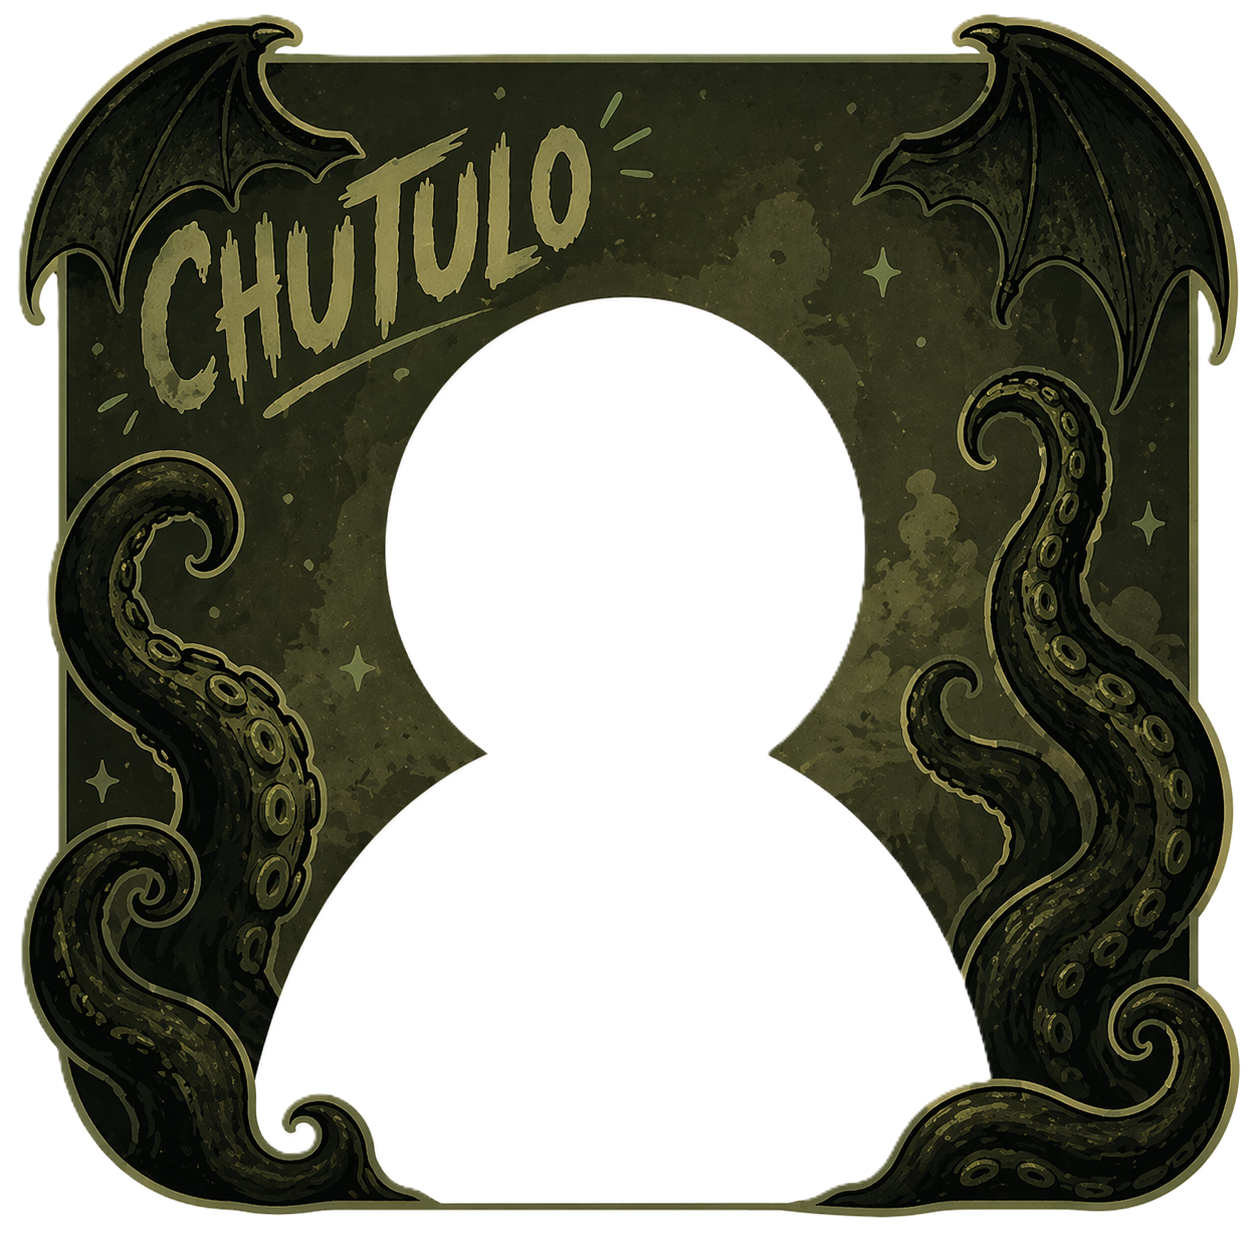
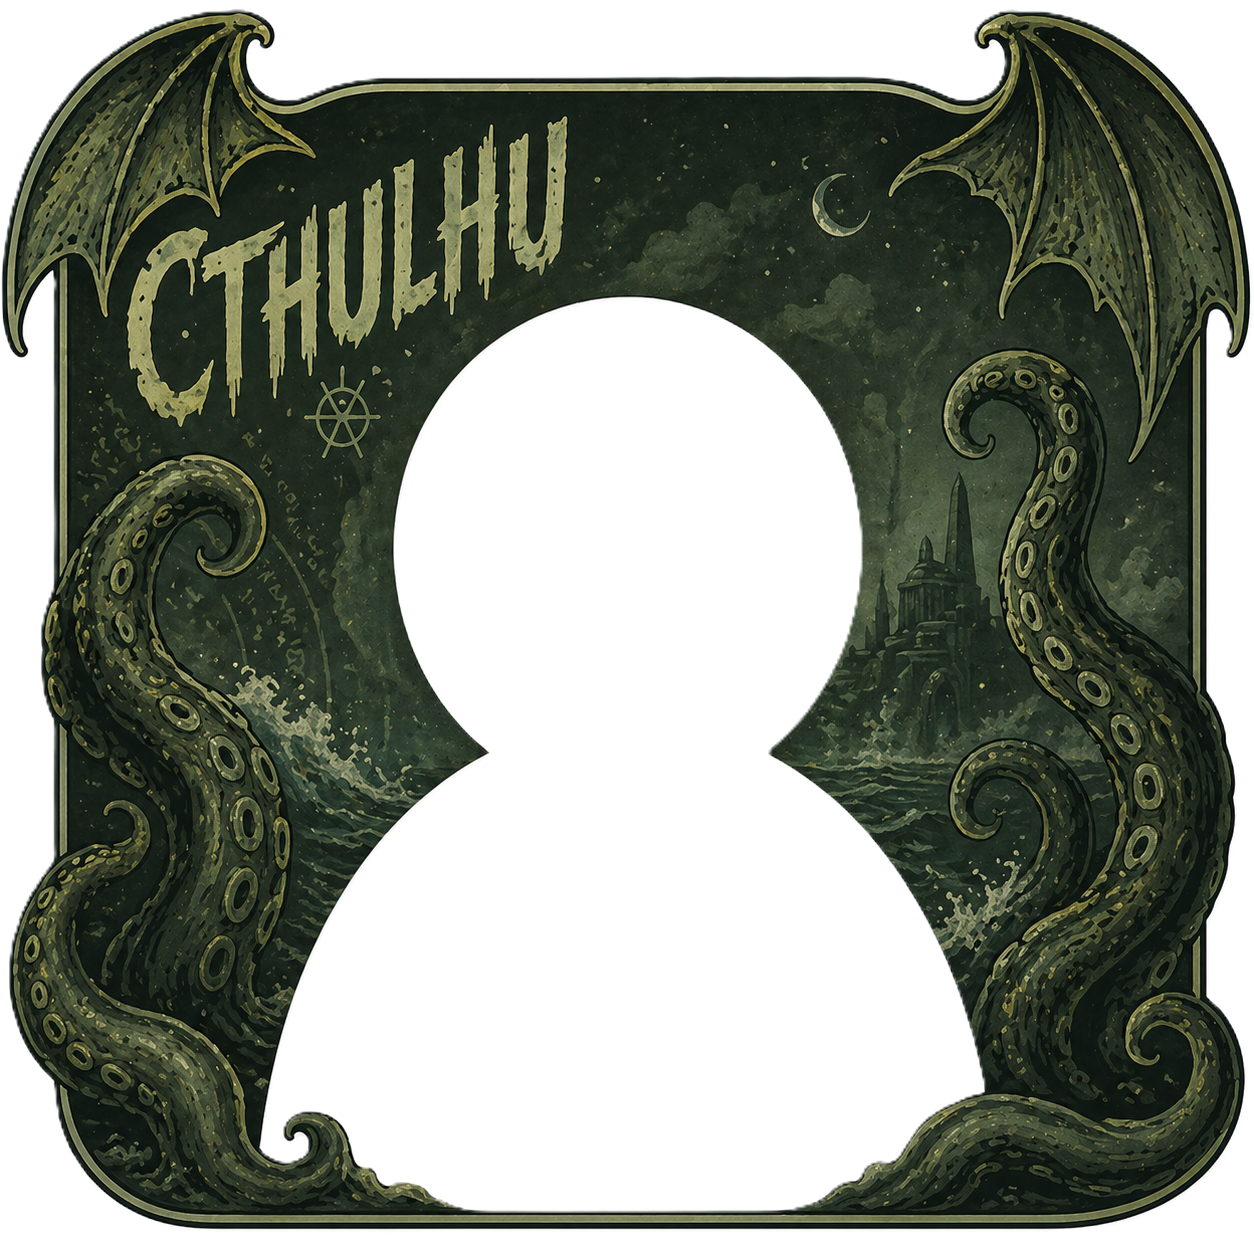
v2e1

diff --git a/src/components/CharacterSheet.jsx b/src/components/CharacterSheet.jsx
@@ -123,13 +123,24 @@ const TABS = [
 
 const PORTRAIT_W = 160
 const PORTRAIT_H = 200
-const PORTRAIT_OVAL = { cx: 80, cy: 117, rx: 69, ry: 55 }
-const CLIP = `ellipse(${PORTRAIT_OVAL.rx}px ${PORTRAIT_OVAL.ry}px at ${PORTRAIT_OVAL.cx}px ${PORTRAIT_OVAL.cy}px)`
 
-function PortraitFrame({ url, scale, offsetX, offsetY, naturalWidth, naturalHeight, onChange }) {
+const FRAME_CONFIGS = {
+  cutuloframe: { cx: 80, cy: 117, rx: 69, ry: 55 },
+  defaultimg:  { cx: 80, cy: 118, rx: 65, ry: 76 },
+}
+const getOval    = (frame) => FRAME_CONFIGS[frame] || FRAME_CONFIGS.cutuloframe
+const makeClip   = (oval)  => `ellipse(${oval.rx}px ${oval.ry}px at ${oval.cx}px ${oval.cy}px)`
+
+const FRAMES = [
+  { key: 'cutuloframe', label: 'Cthulhu' },
+  { key: 'defaultimg',  label: 'Padrão'  },
+]
+
+function PortraitFrame({ url, scale, offsetX, offsetY, naturalWidth, naturalHeight, frame, onChange }) {
   const [showUrlInput, setShowUrlInput] = useState(false)
   const [showEditor, setShowEditor] = useState(false)
   const [draftUrl, setDraftUrl] = useState('')
+  const [draftFrame, setDraftFrame] = useState(frame || 'cutuloframe')
   const [draft, setDraft] = useState({ scale: 1, offsetX: 0, offsetY: 0, nw: 0, nh: 0 })
   const urlInputRef = useRef(null)
 
@@ -139,6 +150,7 @@ function PortraitFrame({ url, scale, offsetX, offsetY, naturalWidth, naturalHeig
 
   const openClick = () => {
     setDraftUrl(url || '')
+    setDraftFrame(frame || 'cutuloframe')
     if (url) {
       setDraft({ scale: scale || 1, offsetX: offsetX || 0, offsetY: offsetY || 0, nw: naturalWidth || 0, nh: naturalHeight || 0 })
       setShowEditor(true)
@@ -188,19 +200,20 @@ function PortraitFrame({ url, scale, offsetX, offsetY, naturalWidth, naturalHeig
       portraitOffsetY: draft.offsetY,
       portraitNaturalWidth: draft.nw,
       portraitNaturalHeight: draft.nh,
+      portraitFrame: draftFrame,
     })
     setShowEditor(false)
   }
 
-  const portraitStyle = (s, ox, oy, nw, nh) => {
+  const portraitStyle = (oval, s, ox, oy, nw, nh) => {
     if (nw && nh) {
-      const bs = Math.max((PORTRAIT_OVAL.rx * 2) / nw, (PORTRAIT_OVAL.ry * 2) / nh)
+      const bs = Math.max((oval.rx * 2) / nw, (oval.ry * 2) / nh)
       const W = nw * bs * (s || 1)
       const H = nh * bs * (s || 1)
       return {
         position: 'absolute',
-        left: PORTRAIT_OVAL.cx - W / 2 + (ox || 0),
-        top: PORTRAIT_OVAL.cy - H / 2 + (oy || 0),
+        left: oval.cx - W / 2 + (ox || 0),
+        top: oval.cy - H / 2 + (oy || 0),
         width: W,
         height: 'auto',
         maxWidth: 'none',
@@ -210,7 +223,7 @@ function PortraitFrame({ url, scale, offsetX, offsetY, naturalWidth, naturalHeig
     return {
       position: 'absolute', inset: 0, width: '100%', height: '100%',
       objectFit: 'cover',
-      transformOrigin: `${PORTRAIT_OVAL.cx}px ${PORTRAIT_OVAL.cy}px`,
+      transformOrigin: `${oval.cx}px ${oval.cy}px`,
       transform: `translate(${ox || 0}px, ${oy || 0}px) scale(${s || 1})`,
       userSelect: 'none',
     }
@@ -220,21 +233,21 @@ function PortraitFrame({ url, scale, offsetX, offsetY, naturalWidth, naturalHeig
     <div className="relative shrink-0" style={{ width: PORTRAIT_W, height: PORTRAIT_H }}>
       {url ? (
         <>
-          {/* Portrait clipped to oval */}
-          <div style={{ position: 'absolute', inset: 0, clipPath: CLIP, overflow: 'hidden', zIndex: 0 }}>
+          {/* Portrait clipped to oval — oval varies per frame */}
+          <div style={{ position: 'absolute', inset: 0, clipPath: makeClip(getOval(frame)), overflow: 'hidden', zIndex: 0 }}>
             <img src={url} alt="Retrato" draggable={false}
-              style={portraitStyle(scale, offsetX, offsetY, naturalWidth, naturalHeight)}
+              style={portraitStyle(getOval(frame), scale, offsetX, offsetY, naturalWidth, naturalHeight)}
               onError={e => { e.target.style.display = 'none' }}
             />
           </div>
-          {/* Frame overlay */}
-          <img src="/cutuloframe.png" alt="" draggable={false}
+          {/* Frame overlay — uses saved frame choice */}
+          <img src={`/${frame || 'cutuloframe'}.png`} alt="" draggable={false}
             style={{ position: 'absolute', inset: 0, width: '100%', height: '100%', zIndex: 1, pointerEvents: 'none' }}
           />
         </>
       ) : (
-        /* Default image — no frame */
-        <img src="/defaultimg.png" alt="Retrato padrão" draggable={false}
+        /* Default placeholder — click to set portrait */
+        <img src="/whochar.png" alt="Retrato padrão" draggable={false}
           style={{ position: 'absolute', inset: 0, width: '100%', height: '100%', objectFit: 'cover', zIndex: 0 }}
         />
       )}
@@ -275,6 +288,27 @@ function PortraitFrame({ url, scale, offsetX, offsetY, naturalWidth, naturalHeig
                          bg-white dark:bg-gray-800 text-gray-900 dark:text-gray-100
                          focus:outline-none focus:ring-2 focus:ring-achtung-green/50 mb-4"
             />
+
+            {/* Frame selector */}
+            <p className="text-xs text-gray-500 dark:text-gray-400 mb-2">Moldura</p>
+            <div className="flex gap-3 mb-4">
+              {FRAMES.map(({ key, label }) => (
+                <button
+                  key={key}
+                  type="button"
+                  onClick={() => setDraftFrame(key)}
+                  className={`flex flex-col items-center gap-1 p-1.5 rounded-lg border-2 transition-colors
+                              ${draftFrame === key
+                                ? 'border-achtung-green-dark dark:border-achtung-green-light'
+                                : 'border-gray-200 dark:border-gray-700 hover:border-achtung-green/50'}`}
+                >
+                  <img src={`/${key}.png`} alt={label}
+                       className="w-14 h-[72px] object-cover rounded" draggable={false} />
+                  <span className="text-[10px] text-gray-600 dark:text-gray-300">{label}</span>
+                </button>
+              ))}
+            </div>
+
             <div className="flex justify-end gap-2">
               <button type="button" onClick={() => setShowUrlInput(false)}
                 className="px-3 py-1.5 text-sm rounded-lg text-gray-500 hover:bg-gray-100
@@ -320,6 +354,28 @@ function PortraitFrame({ url, scale, offsetX, offsetY, naturalWidth, naturalHeig
                 <p className="text-xs text-gray-400 dark:text-gray-500 mt-2">
                   Arraste a imagem para reposicionar
                 </p>
+
+                {/* Frame selector inside editor */}
+                <div className="mt-3">
+                  <p className="text-xs text-gray-500 dark:text-gray-400 mb-2">Moldura</p>
+                  <div className="flex gap-2">
+                    {FRAMES.map(({ key, label }) => (
+                      <button
+                        key={key}
+                        type="button"
+                        onClick={() => setDraftFrame(key)}
+                        className={`flex flex-col items-center gap-1 p-1 rounded-lg border-2 transition-colors
+                                    ${draftFrame === key
+                                      ? 'border-achtung-green-dark dark:border-achtung-green-light'
+                                      : 'border-gray-200 dark:border-gray-700 hover:border-achtung-green/50'}`}
+                      >
+                        <img src={`/${key}.png`} alt={label}
+                             className="w-10 h-[52px] object-cover rounded" draggable={false} />
+                        <span className="text-[9px] text-gray-600 dark:text-gray-300">{label}</span>
+                      </button>
+                    ))}
+                  </div>
+                </div>
               </div>
 
               <div className="flex flex-col gap-2 mt-4">
@@ -344,32 +400,37 @@ function PortraitFrame({ url, scale, offsetX, offsetY, naturalWidth, naturalHeig
             {/* Right column: image preview (2× scaled) */}
             <div style={{ width: PORTRAIT_W * 2, height: PORTRAIT_H * 2, position: 'relative', flexShrink: 0, overflow: 'hidden' }}>
               <div style={{ width: PORTRAIT_W, height: PORTRAIT_H, transform: 'scale(2)', transformOrigin: '0 0' }}>
-                <img
-                  src={draftUrl}
-                  alt="Preview"
-                  draggable={false}
-                  style={{
-                    ...portraitStyle(draft.scale, draft.offsetX, draft.offsetY, draft.nw, draft.nh),
-                    cursor: 'grab',
-                    zIndex: 0,
-                  }}
-                  onLoad={handleImgLoad}
-                  onMouseDown={handleDragStart}
-                />
-                <svg
-                  style={{ position: 'absolute', inset: 0, width: '100%', height: '100%', pointerEvents: 'none', zIndex: 1 }}
-                  viewBox={`0 0 ${PORTRAIT_W} ${PORTRAIT_H}`}
-                  preserveAspectRatio="none"
-                >
-                  <defs>
-                    <mask id="editor-oval-mask">
-                      <rect width={PORTRAIT_W} height={PORTRAIT_H} fill="white" />
-                      <ellipse cx={PORTRAIT_OVAL.cx} cy={PORTRAIT_OVAL.cy} rx={PORTRAIT_OVAL.rx} ry={PORTRAIT_OVAL.ry} fill="black" />
-                    </mask>
-                  </defs>
-                  <rect width={PORTRAIT_W} height={PORTRAIT_H} fill="rgba(0,0,0,0.5)" mask="url(#editor-oval-mask)" />
-                </svg>
-                <img src="/cutuloframe.png" alt="" draggable={false}
+                {(() => {
+                  const editorOval = getOval(draftFrame)
+                  return (<>
+                    <img
+                      src={draftUrl}
+                      alt="Preview"
+                      draggable={false}
+                      style={{
+                        ...portraitStyle(editorOval, draft.scale, draft.offsetX, draft.offsetY, draft.nw, draft.nh),
+                        cursor: 'grab',
+                        zIndex: 0,
+                      }}
+                      onLoad={handleImgLoad}
+                      onMouseDown={handleDragStart}
+                    />
+                    <svg
+                      style={{ position: 'absolute', inset: 0, width: '100%', height: '100%', pointerEvents: 'none', zIndex: 1 }}
+                      viewBox={`0 0 ${PORTRAIT_W} ${PORTRAIT_H}`}
+                      preserveAspectRatio="none"
+                    >
+                      <defs>
+                        <mask id="editor-oval-mask">
+                          <rect width={PORTRAIT_W} height={PORTRAIT_H} fill="white" />
+                          <ellipse cx={editorOval.cx} cy={editorOval.cy} rx={editorOval.rx} ry={editorOval.ry} fill="black" />
+                        </mask>
+                      </defs>
+                      <rect width={PORTRAIT_W} height={PORTRAIT_H} fill="rgba(0,0,0,0.5)" mask="url(#editor-oval-mask)" />
+                    </svg>
+                  </>)
+                })()}
+                <img src={`/${draftFrame}.png`} alt="" draggable={false}
                   style={{ position: 'absolute', inset: 0, width: '100%', height: '100%', pointerEvents: 'none', zIndex: 2 }}
                 />
               </div>
@@ -580,6 +641,7 @@ export default function CharacterSheet({ characterName, isMaster = false, isNpc 
           offsetY={character.portraitOffsetY || 0}
           naturalWidth={character.portraitNaturalWidth || 0}
           naturalHeight={character.portraitNaturalHeight || 0}
+          frame={character.portraitFrame || 'cutuloframe'}
           onChange={data => updateCharacter(prev => ({ ...prev, ...data }))}
         />
       </div>

diff --git a/src/utils/characterTemplate.js b/src/utils/characterTemplate.js
@@ -119,6 +119,7 @@ export function createCharacterTemplate(name, password) {
     portraitOffsetY: 0,
     portraitNaturalWidth: 0,
     portraitNaturalHeight: 0,
+    portraitFrame: 'cutuloframe',
     setupComplete: false,
     createdAt: new Date().toISOString(),
     updatedAt: new Date().toISOString(),
